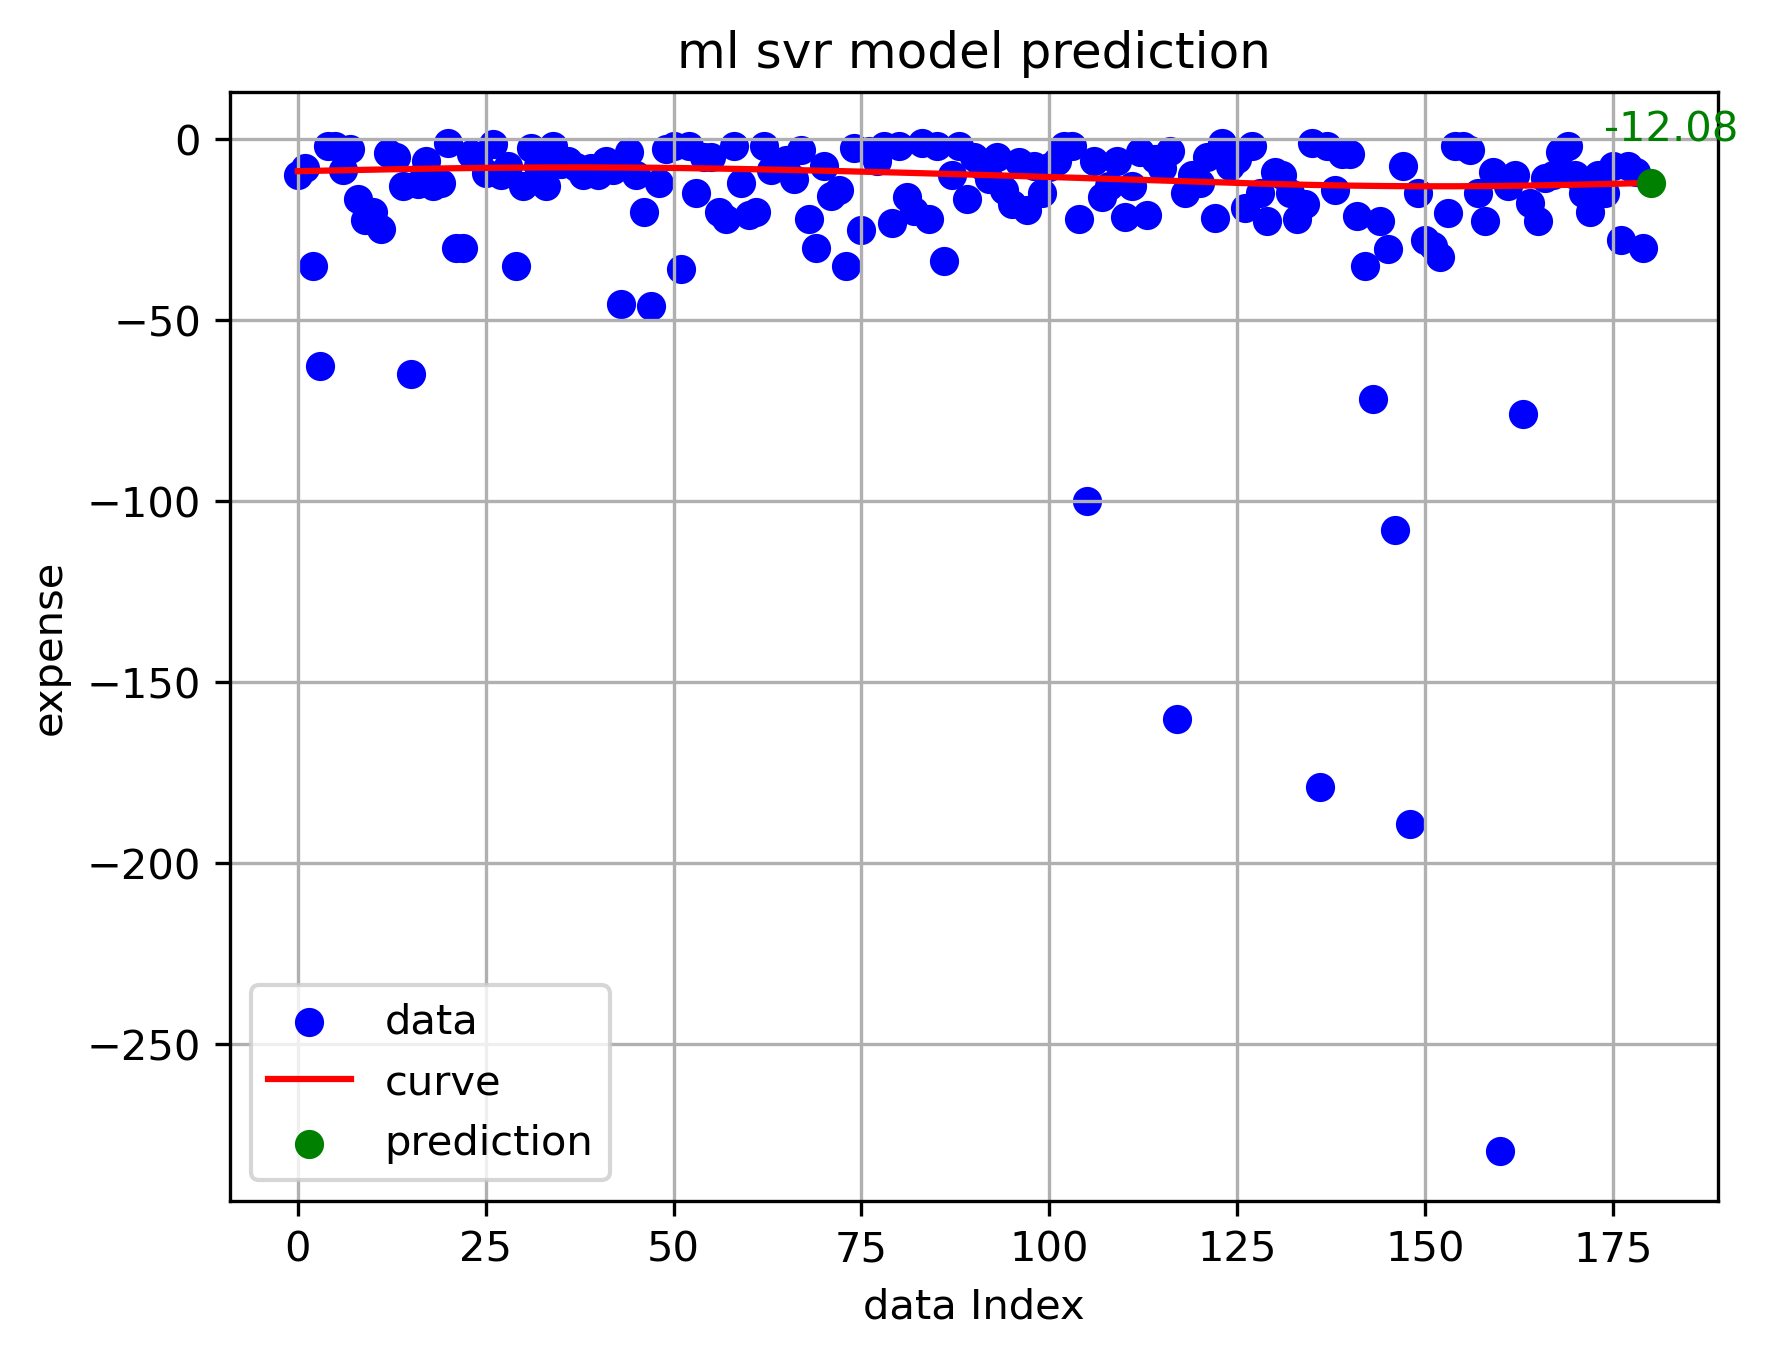
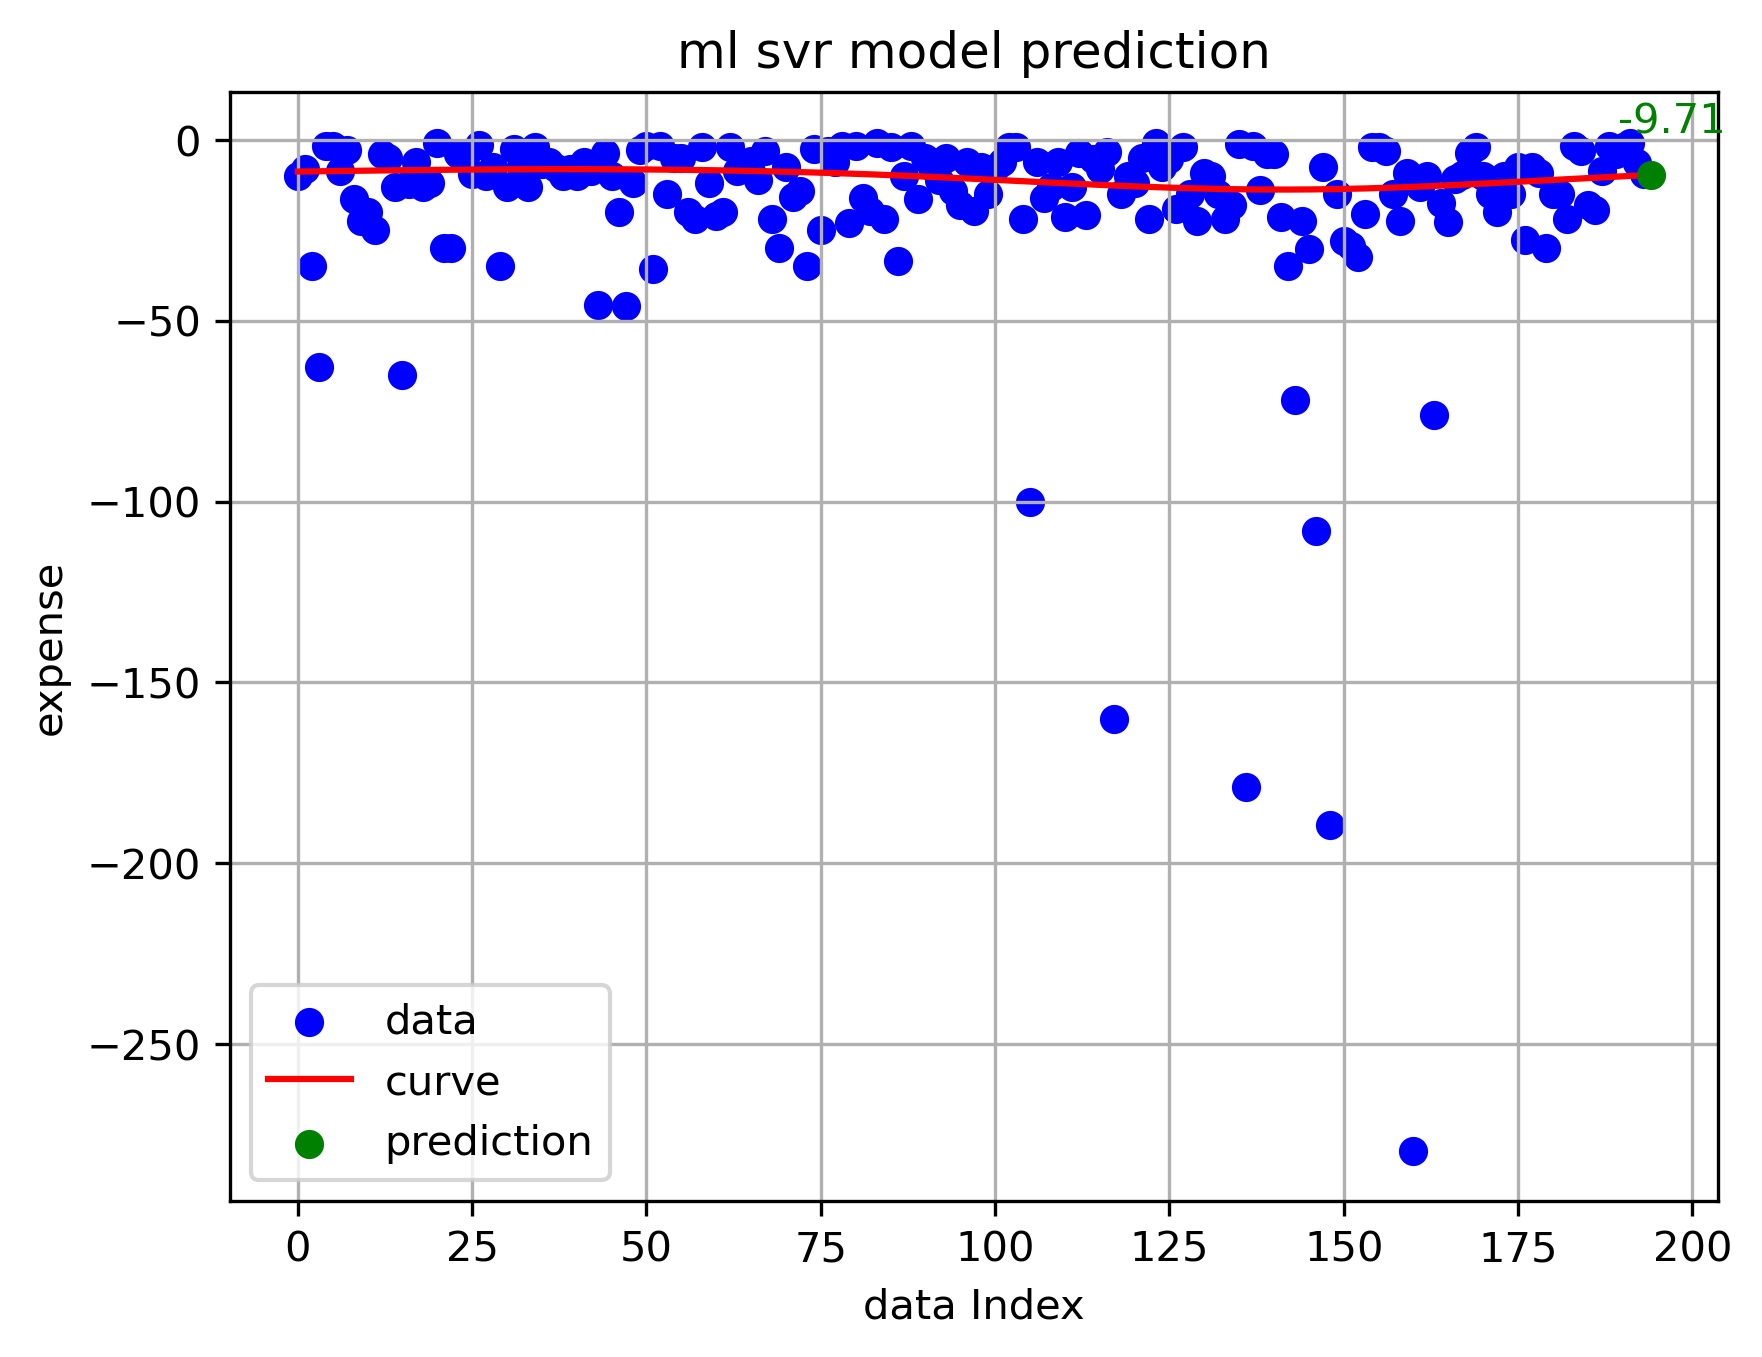
data update 12.12 and Optimize the value range

diff --git a/Avg&Var/Avg&Var.py b/Avg&Var/Avg&Var.py
@@ -30,7 +30,7 @@ try:
 
     # 查询 2: 日期出现次数统计
     with connection.cursor() as cursor:
-        query = "SELECT `日期` FROM table_detail WHERE `金额（可执行）` <= -15 AND NOT `项目` = '小结';"
+        query = "SELECT `日期` FROM table_detail WHERE `金额（可执行）` <= -14 AND NOT `项目` = '小结';"
         cursor.execute(query)
         result = cursor.fetchall()
         overspend = [row[0] for row in result]

diff --git a/Avg&Var/result.md b/Avg&Var/result.md
@@ -2,8 +2,8 @@
 
 ## 金额（可执行）数据分析
 
-- 平均值: -76.36435897435898
-- 方差: 6118.003956815115
+- 平均值: -74.6447619047619
+- 方差: 5774.422698722416
 
 ## 日期出现次数统计
 
@@ -19,12 +19,12 @@
 | 2024-11-09 |          4 |
 | 2024-11-10 |          1 |
 | 2024-11-12 |          1 |
-| 2024-11-13 |          2 |
+| 2024-11-13 |          3 |
 | 2024-11-14 |          2 |
 | 2024-11-15 |          1 |
 | 2024-11-16 |          2 |
 | 2024-11-17 |          3 |
-| 2024-11-19 |          1 |
+| 2024-11-19 |          2 |
 | 2024-11-20 |          1 |
 | 2024-11-21 |          1 |
 | 2024-11-22 |          3 |
@@ -44,4 +44,5 @@
 | 2024-12-06 |          1 |
 | 2024-12-07 |          1 |
 | 2024-12-08 |          2 |
-| 2024-12-09 |          1 |
+| 2024-12-09 |          2 |
+| 2024-12-10 |          4 |

diff --git a/ExpenseAnalysis/model_predictions.md b/ExpenseAnalysis/model_predictions.md
@@ -4,12 +4,12 @@
 ## 预测值列表
 | 序号 | 预测值 |
 | -------- | ----------------------- |
-| 1    | -23.29137              |
-| 2    | -27.74142              |
-| 3    | -22.45600              |
-| 4    | -12.07722              |
+| 1    | -5.66117              |
+| 2    | -27.37988              |
+| 3    | -7.86090              |
+| 4    | -9.70802              |
     
 ## 统计分析
-- **均值**: -21.39
-- **总体方差**: 32.95
-- **样本方差**: 43.94
+- **均值**: -12.65
+- **总体方差**: 74.35
+- **样本方差**: 99.13
